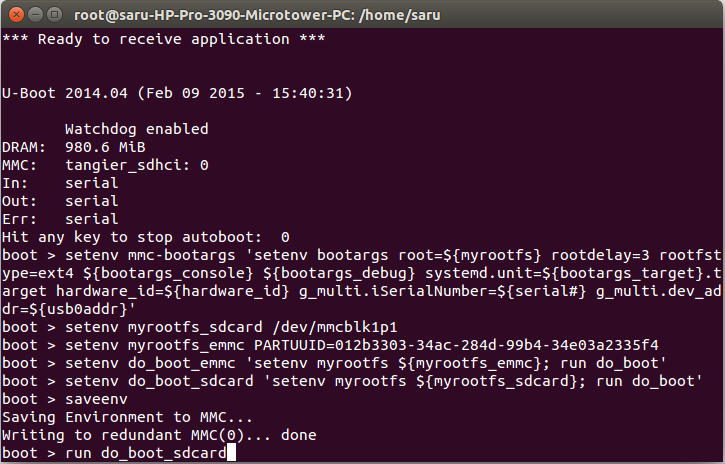
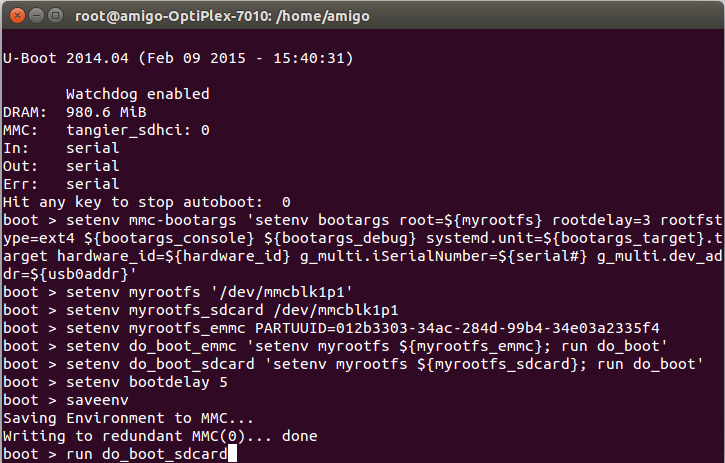
README.md updated

diff --git a/README.md b/README.md
@@ -98,6 +98,8 @@ To modify u-boot env variables ,during the boot, on the serial console, when it 
   
       > setenv mmc-bootargs 'setenv bootargs root=${myrootfs} rootdelay=3 rootfstype=ext4 ${bootargs_console} ${bootargs_debug} systemd.unit=${bootargs_target}.target hardware_id=${hardware_id} g_multi.iSerialNumber=${serial#} g_multi.dev_addr=${usb0addr}'
 
+      > setenv myrootfs '/dev/mmcblk1p1'
+
       > setenv myrootfs_sdcard /dev/mmcblk1p1
 
       > setenv myrootfs_emmc PARTUUID=012b3303-34ac-284d-99b4-34e03a2335f4
@@ -105,6 +107,8 @@ To modify u-boot env variables ,during the boot, on the serial console, when it 
       > setenv do_boot_emmc 'setenv myrootfs ${myrootfs_emmc}; run do_boot'
 
       > setenv do_boot_sdcard 'setenv myrootfs ${myrootfs_sdcard}; run do_boot'
+
+      > setenv bootdelay 5
 
       > saveenv
 
@@ -127,9 +131,6 @@ To modify u-boot env variables ,during the boot, on the serial console, when it 
 
         > run do_boot_emmc
 
-* To boot from SD card by running the below command in the U-Boot command prompt:
-
-        > run do_boot_sdcard
 
 	
 ## Reference
